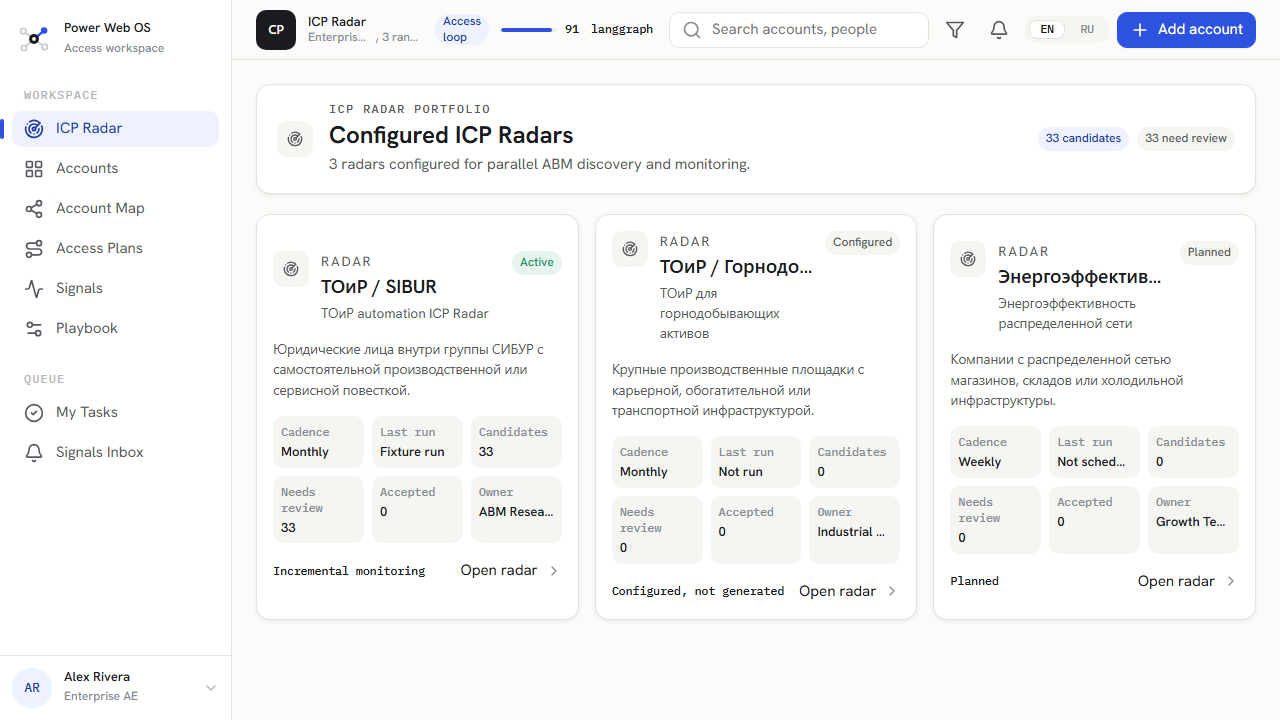
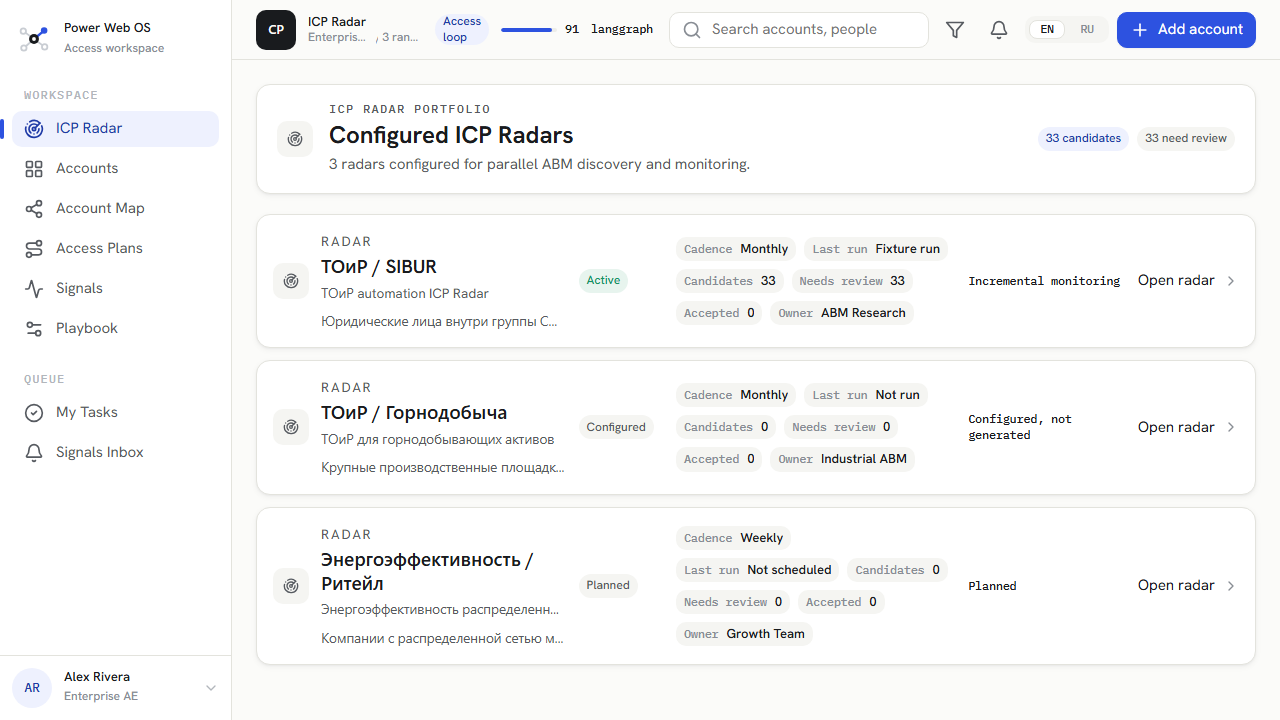
Fix ICP Radar catalog layout

diff --git a/frontend/src/styles.css b/frontend/src/styles.css
@@ -859,64 +859,84 @@ button {
   gap: var(--s-2);
 }
 
-.icp-radar-catalog-grid {
+.icp-radar-catalog-list {
   display: grid;
-  grid-template-columns: repeat(3, minmax(0, 1fr));
-  gap: var(--s-4);
+  gap: var(--s-3);
 }
 
-.icp-radar-card {
+.icp-radar-list-row {
   display: grid;
-  gap: var(--s-4);
+  grid-template-columns:
+    minmax(0, 1.1fr)
+    minmax(var(--s-16), 0.32fr)
+    minmax(0, 1.05fr)
+    minmax(0, 0.58fr)
+    minmax(calc(var(--s-20) + var(--s-6)), 0.38fr);
+  align-items: center;
+  gap: var(--s-3);
   width: 100%;
   min-width: 0;
 }
 
-.icp-radar-card-head {
+.icp-radar-list-main {
   display: grid;
-  grid-template-columns: auto minmax(0, 1fr) auto;
-  align-items: start;
+  grid-template-columns: auto minmax(0, 1fr);
+  align-items: center;
   gap: var(--s-3);
   min-width: 0;
 }
 
-.icp-radar-card-head h2 {
+.icp-radar-list-main h2 {
+  display: -webkit-box;
   margin: var(--s-1) 0;
   overflow: hidden;
   color: var(--ink);
   font: var(--h3);
+  -webkit-box-orient: vertical;
+  -webkit-line-clamp: 2;
+}
+
+.icp-radar-list-main p,
+.icp-radar-list-main small {
+  display: block;
+  margin: 0;
+  overflow: hidden;
+  color: var(--fg2);
+  font: var(--body-sm);
   text-overflow: ellipsis;
   white-space: nowrap;
 }
 
-.icp-radar-card-head p,
-.icp-radar-card-scope {
-  margin: 0;
-  color: var(--fg2);
-  font: var(--body-sm);
+.icp-radar-list-main small {
+  margin-top: var(--s-2);
 }
 
-.icp-radar-card-metrics {
-  display: grid;
-  grid-template-columns: repeat(3, minmax(0, 1fr));
+.icp-radar-list-metrics {
+  display: flex;
+  min-width: 0;
+  flex-wrap: wrap;
   gap: var(--s-2);
   margin: 0;
 }
 
-.icp-radar-card-metrics div {
+.icp-radar-list-metrics div {
+  display: inline-flex;
+  align-items: baseline;
   min-width: 0;
-  padding: var(--s-2);
+  gap: var(--s-2);
+  min-height: var(--s-7);
+  padding: var(--s-1) var(--s-2);
   border-radius: var(--r-md);
   background: var(--surface-2);
 }
 
-.icp-radar-card-metrics dt {
+.icp-radar-list-metrics dt {
   color: var(--fg3);
   font: var(--mono-sm);
 }
 
-.icp-radar-card-metrics dd {
-  margin: var(--s-1) 0 0;
+.icp-radar-list-metrics dd {
+  margin: 0;
   overflow: hidden;
   color: var(--ink);
   font: var(--label);
@@ -924,7 +944,22 @@ button {
   white-space: nowrap;
 }
 
-.icp-radar-card-footer,
+.icp-radar-list-status,
+.icp-radar-run-mode {
+  display: flex;
+  min-width: 0;
+}
+
+.icp-radar-list-status {
+  justify-content: flex-start;
+}
+
+.icp-radar-run-mode {
+  justify-content: flex-start;
+  overflow-wrap: anywhere;
+}
+
+.icp-radar-list-action,
 .icp-radar-tabs,
 .icp-settings-section-head {
   display: flex;
@@ -932,6 +967,15 @@ button {
   justify-content: space-between;
   min-width: 0;
   gap: var(--s-3);
+}
+
+.icp-radar-list-action {
+  justify-content: flex-end;
+}
+
+.icp-radar-list-action .row-action {
+  min-width: 0;
+  justify-content: flex-end;
 }
 
 .icp-radar-selected-shell {
@@ -2580,9 +2624,13 @@ button {
     display: none;
   }
 
-  .icp-radar-catalog-grid,
   .icp-settings-grid {
     grid-template-columns: minmax(0, 1fr);
+  }
+
+  .icp-radar-list-row {
+    grid-template-columns: minmax(0, 1fr);
+    align-items: start;
   }
 
   .icp-settings-grid .card:nth-child(5),
@@ -2590,9 +2638,12 @@ button {
     grid-column: auto;
   }
 
-  .icp-radar-card-metrics,
   .icp-settings-formula-grid {
     grid-template-columns: repeat(2, minmax(0, 1fr));
+  }
+
+  .icp-radar-list-action {
+    justify-content: space-between;
   }
 
   .icp-candidate-detail-grid {

diff --git a/frontend/src/screens/ICPRadarScreen.tsx b/frontend/src/screens/ICPRadarScreen.tsx
@@ -223,11 +223,11 @@ function RadarCatalogScreen({
         </div>
       </header>
 
-      <div className="icp-radar-catalog-grid">
+      <div className="icp-radar-catalog-list">
         {catalog.radars.map((radar) => (
           <Card interactive key={radar.radar_id} onClick={() => onOpenRadar(radar)}>
-            <div className="icp-radar-card">
-              <div className="icp-radar-card-head">
+            <div className="icp-radar-list-row">
+              <div className="icp-radar-list-main">
                 <span className="section-icon">
                   <Radar aria-hidden="true" />
                 </span>
@@ -235,13 +235,15 @@ function RadarCatalogScreen({
                   <Eyebrow>{t('icpRadar.radarCardEyebrow')}</Eyebrow>
                   <h2>{radar.name}</h2>
                   <p>{radar.profile.icp_profile}</p>
+                  <small>{radar.profile.scope}</small>
                 </div>
+              </div>
+              <span className="icp-radar-list-status">
                 <Badge tone={radar.status === 'active' ? 'ally' : 'neutral'}>
                   {t(radarStatusKey(radar.status))}
                 </Badge>
-              </div>
-              <p className="icp-radar-card-scope">{radar.profile.scope}</p>
-              <dl className="icp-radar-card-metrics">
+              </span>
+              <dl className="icp-radar-list-metrics">
                 <Metric label={t('icpRadar.cardFields.cadence')} value={t(cadenceKey(radar.summary.cadence))} />
                 <Metric label={t('icpRadar.cardFields.lastRun')} value={t(lastRunKey(radar.summary.last_run))} />
                 <Metric label={t('icpRadar.cardFields.candidates')} value={String(radar.summary.candidate_count)} />
@@ -249,8 +251,10 @@ function RadarCatalogScreen({
                 <Metric label={t('icpRadar.cardFields.accepted')} value={String(radar.summary.accepted_count)} />
                 <Metric label={t('icpRadar.cardFields.owner')} value={radar.owner} />
               </dl>
-              <div className="icp-radar-card-footer">
+              <span className="icp-radar-run-mode">
                 <Mono>{t(runModeKey(radar.summary.run_mode))}</Mono>
+              </span>
+              <div className="icp-radar-list-action">
                 <span className="row-action">
                   {t('icpRadar.openRadar')}
                   <ChevronRight aria-hidden="true" />

diff --git a/tests/test_frontend_demo_contract.py b/tests/test_frontend_demo_contract.py
@@ -351,8 +351,13 @@ def test_icp_radar_screen_is_default_and_loads_fixture_artifact() -> None:
     assert ".criteria-review-row" in css
     assert ".criterion-evidence-detail" in css
     assert ".criterion-review-panel" in css
-    assert ".icp-radar-catalog-grid" in css
-    assert ".icp-radar-card" in css
+    assert ".icp-radar-catalog-list" in css
+    assert ".icp-radar-list-row" in css
+    assert ".icp-radar-list-status" in css
+    assert ".icp-radar-run-mode" in css
+    assert "icp-radar-list-status" in screen
+    assert "icp-radar-run-mode" in screen
+    assert "grid-template-columns: repeat(3, minmax(0, 1fr))" not in css
     assert ".icp-settings-grid" in css
     assert ".icp-radar-tabs" in css
     assert ".icp-detail-sticky-header" in css

diff --git a/ROADMAP.md b/ROADMAP.md
@@ -951,6 +951,38 @@ Status:
 - Risks:
   - CSS anchoring can regress in older browsers; mitigate with build checks and visual smoke in Chromium.
 
+### Slice 0.6.2.7: ICP Radar catalog list-first UX correction
+
+- Status: `Done`
+- Goal: Replace the three-column ICP Radar catalog cards with a list-first catalog that is readable on laptop screens.
+- User value: A sales or ABM user can compare configured radars, statuses, run cadence, owners, and candidate counts without truncated card content.
+- Scope:
+  - Replace the three-column radar card grid with a vertical list of wide radar rows.
+  - Keep one configured radar per row with name, ICP profile, scope, status, compact metrics, run mode, and open action.
+  - Use stable row columns for identity, status, metrics, run mode, and action so fields do not float between rows.
+  - Remove metric tiles inside narrow cards; use a compact metric strip.
+  - Keep small-screen behavior as a stacked row, not a return to narrow multi-column cards.
+- Out of scope:
+  - Backend or artifact changes.
+  - Editable radar settings.
+  - Mobile-specific catalog redesign.
+- Tests:
+  - Frontend contract tests for list-first catalog classes and no three-column catalog grid.
+  - `npm --prefix ./frontend run build`.
+  - Relevant Python frontend/docs contract tests.
+- Docs:
+  - Update configurable-object ADR, user guide, developer guide, and roadmap.
+- Demo impact:
+  - The `ICP Radar` start screen becomes easier to scan and aligns with dense-data UX decisions.
+- Acceptance criteria:
+  - Radar names and summaries are readable on laptop-width screens.
+  - Status, metrics, run mode, and action columns align predictably across radar rows.
+  - Stable catalog columns do not create page-level or workspace-level horizontal overflow.
+  - Catalog rows expose cadence, last run, candidates, needs review, accepted, owner, status, and run mode.
+  - No three-column radar catalog layout remains in frontend CSS.
+- Risks:
+  - Long radar names can still require ellipsis; full configuration remains available in selected radar `Settings`.
+
 ### Slice 0.6.3: ICP Radar signal validation loop
 
 - Status: `Backlog`
@@ -1497,6 +1529,11 @@ Status:
   - Removed the separate preview left rail and moved the detail action below preview content.
   - Increased preview height and kept a single vertical scroll owner for the whole preview.
   - Documented the anchored preview rule in the table-first UX ADR and frontend docs.
+- `Slice 0.6.2.7: ICP Radar catalog list-first UX correction`
+  - Replaced the three-column radar catalog card grid with wide list-first rows.
+  - Moved radar metrics into a compact strip instead of narrow metric tiles.
+  - Kept configured radar status, run mode, owner, cadence, last run, and counts visible in each row.
+  - Documented list-first catalogs for dense configurable objects.
 
 ## Blocked Items
 

diff --git a/docs/user/USER_GUIDE.md b/docs/user/USER_GUIDE.md
@@ -68,7 +68,7 @@ The language switcher localizes UI chrome plus visible deterministic demo data s
 
 ### ICP Radar catalog and shortlist
 
-The `ICP Radar` screen now starts with a catalog of radar cards. Each card represents a configured ICP Radar with owner, cadence, last run, run mode, candidate count, needs-review count, and accepted count. Open `ТОиР / SIBUR` to inspect the active fixture-backed radar. Its `Shortlist` tab contains the current ranked table, and its `Settings` tab shows the read-only radar definition: profile, discovery, monitoring, criteria, scoring formula, thresholds, and limitations.
+The `ICP Radar` screen now starts with a list-first catalog of configured radars. Each row represents a configured ICP Radar with aligned columns for status, owner, cadence, last run, run mode, candidate count, needs-review count, and accepted count. Open `ТОиР / SIBUR` to inspect the active fixture-backed radar. Its `Shortlist` tab contains the current ranked table, and its `Settings` tab shows the read-only radar definition: profile, discovery, monitoring, criteria, scoring formula, thresholds, and limitations.
 
 Start with `ICP Radar`. This is the upstream ABM radar view: it ranks candidate legal entities before they are accepted into Power Web work. The main surface is a wide table: the company column stays fixed while score, tier, evidence, and criteria-related columns can scroll horizontally inside the table. Click a candidate row to open a bounded inline preview with the main signal, short recommendation, top evidence refs, and top criteria. Open the read-only candidate detail view when you need the full C1-C20 breakdown and source refs. Signal validation and take-into-work actions are still planned follow-up slices.
 
@@ -102,7 +102,7 @@ Open `Playbook` to see how the customer's rules shape the plan. The screen shows
 
 The current ICP Radar UI is table-first:
 
-- The workspace opens with radar cards first; select a radar to enter its `Shortlist` and `Settings` tabs.
+- The workspace opens with a list-first radar catalog; select a radar row to enter its `Shortlist` and `Settings` tabs.
 - `Settings` is read-only in this slice and shows the radar definition that produced, or will produce, candidate shortlists.
 - The active `ТОиР / SIBUR` shortlist opens as a broad ranked account table.
 - The first account/company column stays fixed while the user scrolls horizontally across score, evidence, and criteria columns.

diff --git a/docs/adr/2026-06-12-configurable-object-ux.md b/docs/adr/2026-06-12-configurable-object-ux.md
@@ -14,8 +14,11 @@ The ICP Radar UI initially looked like a single radar existed by nature. We deci
 
 Configurable product objects should use catalog-first navigation.
 
-- When the product has many configured objects, start with a catalog/cards view before opening one object.
-- Cards should show the object name, status, owner, cadence or run mode, last activity, output counts, and whether the object is active, configured, or planned.
+- When the product has many configured objects, start with a catalog view before opening one object.
+- Catalogs for dense operational objects should use list-first rows rather than narrow multi-column cards when users need to compare status, cadence, last run, owner, and output counts.
+- Catalog rows should show the object name, status, owner, cadence or run mode, last activity, output counts, and whether the object is active, configured, or planned.
+- Catalog row columns must be stable across rows. Status, metrics, run mode, and primary action should occupy predictable columns instead of floating based on content width.
+- Stable columns must still shrink, wrap, or ellipsize inside the bounded workspace. Do not use fixed minimum column widths that create page-level horizontal overflow on laptop screens.
 - A selected object should use in-shell navigation such as tabs or segmented controls.
 - For ICP Radar the accepted baseline is `Shortlist` / `Settings`.
 - Settings screens may be read-only in early slices, but they must be visibly read-only.

diff --git a/docs/developer/DEVELOPER_GUIDE.md b/docs/developer/DEVELOPER_GUIDE.md
@@ -265,6 +265,7 @@ Rules:
 - Render the selected account's playbook analysis from `artifact.playbook_analysis` on `Playbook`.
 - Load the ICP Radar artifact from `/demo/icp_radar.json`.
 - Keep `ICP Radar` as a separate upstream screen; do not merge it with `Accounts`.
+- Treat the ICP Radar catalog as list-first: one configured radar per wide row with stable columns for identity, status, metrics, run mode, and action, not a three-column card grid or floating metric layout that truncates names and counts on laptop screens.
 - Treat the main `ICP Radar` screen as a table-first workspace:
   - account/company identity belongs in the first sticky column;
   - horizontal scroll is owned by the table wrapper;
